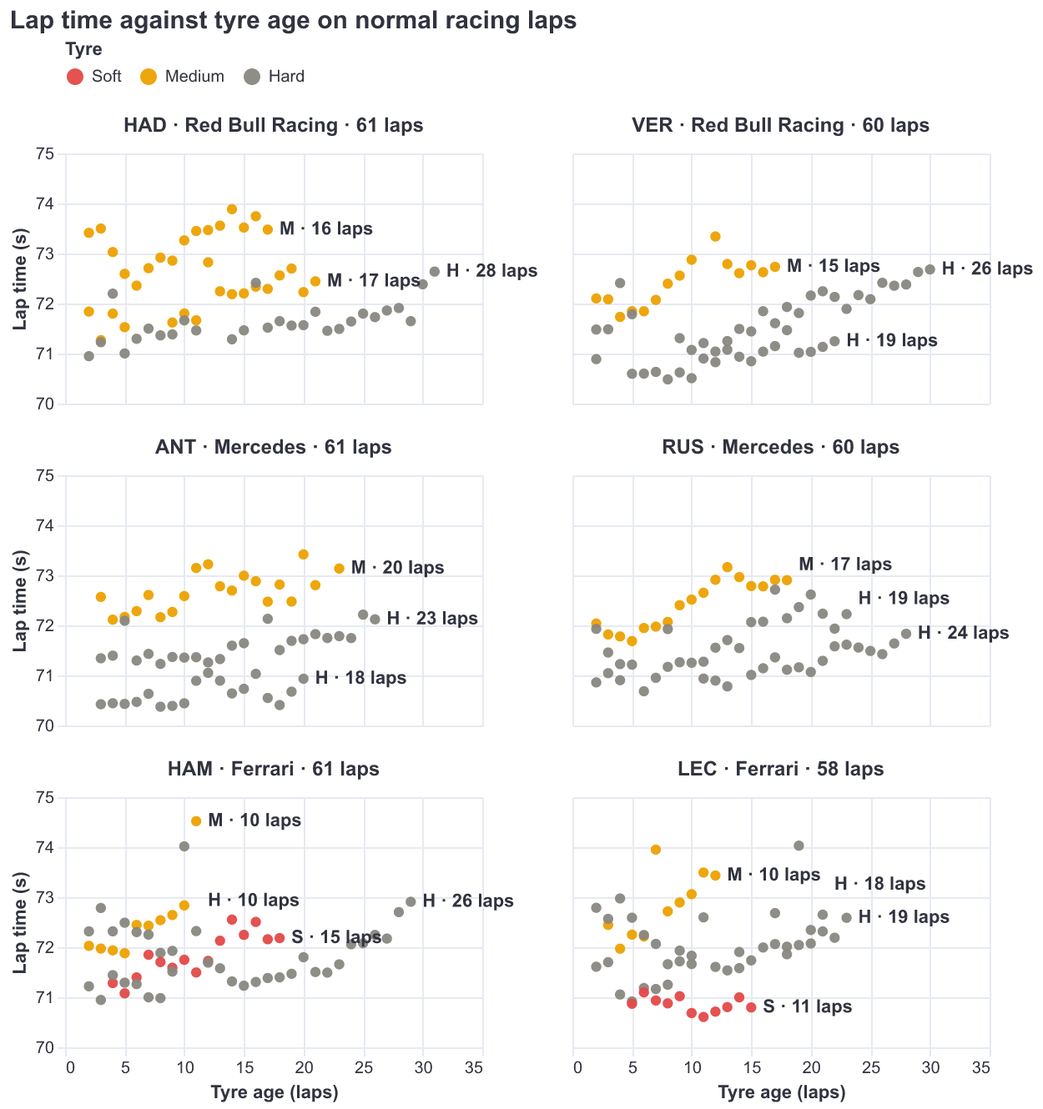
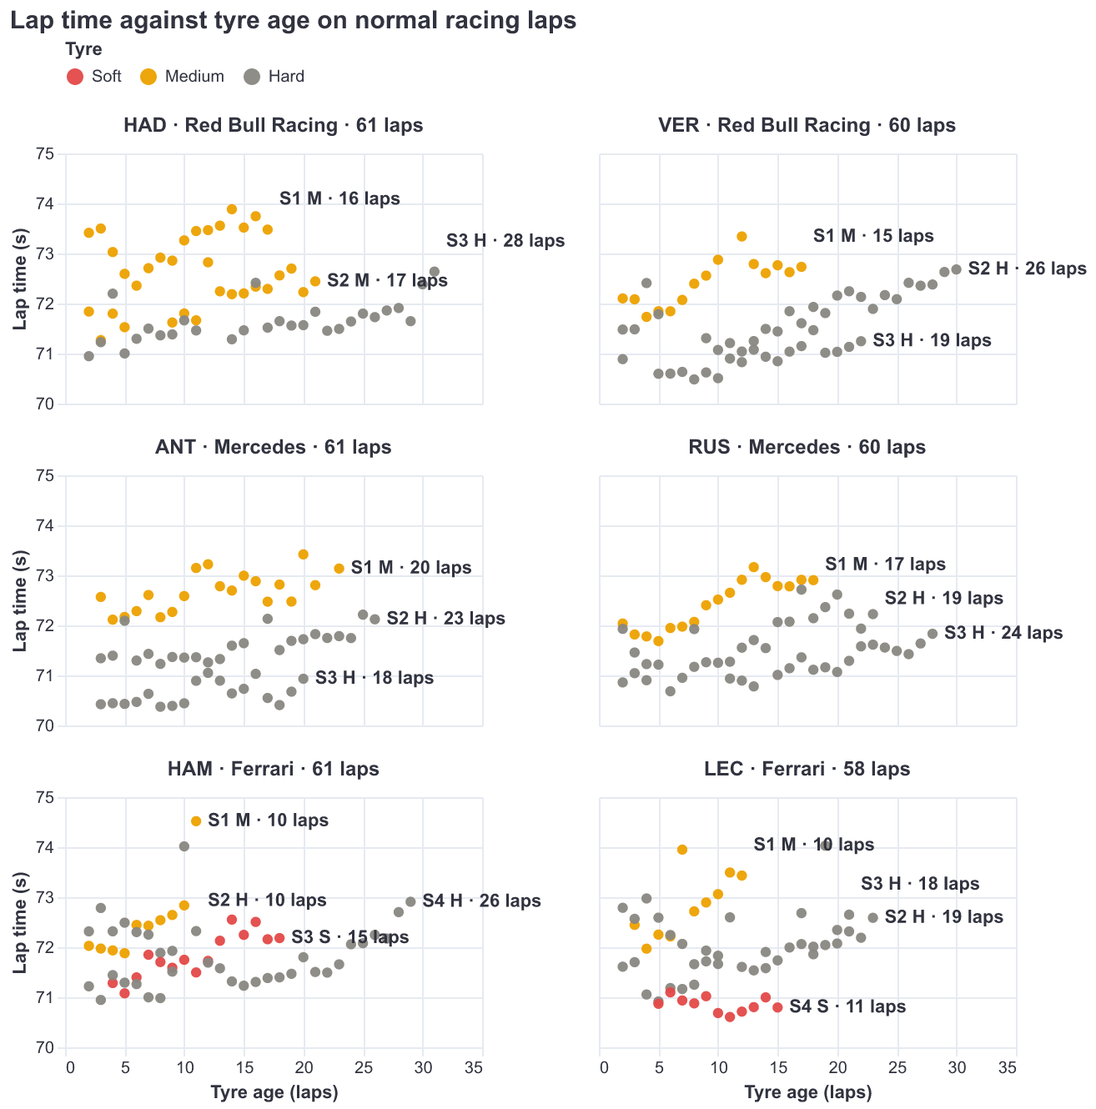
Integrate matched pace comparisons and stint context for issue 17

diff --git a/app/charts.py b/app/charts.py
@@ -123,6 +123,73 @@ def pace_summary(pace: pd.DataFrame) -> pd.DataFrame:
         Label=lambda d: d.Typical.map('{:.2f} s'.format)+' · '+d.Laps.astype(str)+' laps')
 
 
+def matched_pace(laps: pd.DataFrame) -> pd.DataFrame:
+    """Same-lap, same-compound eligible teammate pairs in fixed Austria race windows."""
+    rows = []
+    eligible = laps.loc[laps.EligibleForPace]
+    for team, group in laps.groupby('Team'):
+        drivers = sorted(group.Driver.unique())
+        if len(drivers) != 2:
+            continue
+        a, b = drivers
+        pair = eligible.loc[eligible.Driver.eq(a)].merge(
+            eligible.loc[eligible.Driver.eq(b)], on=['LapNumber', 'Compound'],
+            suffixes=('A', 'B'), validate='one_to_one')
+        if pair.empty:
+            continue
+        pair = pair.assign(Window=pair.LapNumber.map(
+            lambda lap: f'{1+20*((int(lap)-1)//20)}–{min(71,20*(1+(int(lap)-1)//20))}'),
+            Difference=pair.LapTimeSecondsA-pair.LapTimeSecondsB,
+            AgeDifference=pair.TyreLifeA-pair.TyreLifeB)
+        for (window, compound), values in pair.groupby(['Window', 'Compound']):
+            rows.append({'Team': team, 'DriverA': a, 'DriverB': b, 'Pair': f'{a} − {b}',
+                         'Window': window, 'Compound': compound, 'MatchedLaps': len(values),
+                         'MedianDifferenceSecondsAminusB': values.Difference.median(),
+                         'MinimumTyreAgeDifference': values.AgeDifference.min(),
+                         'MaximumTyreAgeDifference': values.AgeDifference.max()})
+    return pd.DataFrame(rows, columns=[
+        'Team', 'DriverA', 'DriverB', 'Pair', 'Window', 'Compound', 'MatchedLaps',
+        'MedianDifferenceSecondsAminusB', 'MinimumTyreAgeDifference', 'MaximumTyreAgeDifference'])
+
+
+def matched_pace_chart(summary: pd.DataFrame, mode: str = 'light', legend: bool = True,
+                       pair_domain: list[str] | None = None) -> alt.LayerChart:
+    """One selected window and compound; a shared domain keeps comparisons honest across panels."""
+    data = summary.assign(Label=summary.MatchedLaps.map(lambda n: f'n={n}'),
+                          Sparse=summary.MatchedLaps.lt(5).map({True: 'Fewer than 5 pairs', False: '5 or more pairs'}))
+    x = alt.X('MedianDifferenceSecondsAminusB:Q', title='Median paired difference A − B (s)',
+              scale=alt.Scale(domain=[-1.1, 1.1], nice=False))
+    # Include every selected value if a future dataset exceeds the current symmetric range.
+    extent = max(1.1, float(data.MedianDifferenceSecondsAminusB.abs().max())+.25) if len(data) else 1.1
+    x.scale = alt.Scale(domain=[-extent, extent], nice=False)
+    order = pair_domain if pair_domain is not None else [
+        pair for pair in ['HAD − VER', 'ANT − RUS', 'HAM − LEC'] if pair in data.Pair.values]
+    y = alt.Y('Pair:N', scale=alt.Scale(domain=order), title='A − B',
+              axis=alt.Axis(labelFontWeight='bold'))
+    base = alt.Chart().encode(x=x, y=y, tooltip=[
+        'Pair:N', 'Team:N', 'Window:N', 'Compound:N', alt.Tooltip('MatchedLaps:Q', title='Matched pairs'),
+        alt.Tooltip('MedianDifferenceSecondsAminusB:Q', title='Median A − B (s)', format='.3f'),
+        alt.Tooltip('MinimumTyreAgeDifference:Q', title='Min tyre age A − B (laps)'),
+        alt.Tooltip('MaximumTyreAgeDifference:Q', title='Max tyre age A − B (laps)')])
+    points = base.mark_point(filled=True, size=130, opacity=1).encode(
+        color=team_color(list(data.Team.unique()), mode).legend(None),
+        shape=alt.Shape('Sparse:N', scale=alt.Scale(domain=['5 or more pairs', 'Fewer than 5 pairs'],
+                                                   range=['circle', 'diamond']),
+                        legend=alt.Legend(title='Sample size', symbolFillColor=INK[mode], symbolStrokeColor=INK[mode]) if legend else None))
+    counts = base.mark_text(dx=12, align='left', color=INK[mode]).encode(text='Label:N')
+    zero = alt.Chart().mark_rule(color=INK[mode], strokeDash=[4, 4]).encode(x=alt.datum(0))
+    return alt.layer(zero, points, counts, data=data).properties(height=150)
+
+
+def stint_context(laps: pd.DataFrame) -> pd.DataFrame:
+    """All recorded stints, including ones with zero eligible pace observations."""
+    return laps.sort_values('LapNumber').groupby(['Team', 'Driver', 'Stint', 'Compound'], sort=False).agg(
+        FirstLap=('LapNumber', 'min'), LastLap=('LapNumber', 'max'),
+        RecordedLaps=('LapNumber', 'size'), EligibleLaps=('EligibleForPace', 'sum'),
+        FreshTyreAtStart=('FreshTyre', 'first'), FirstRecordedTyreAge=('TyreLife', 'first'),
+        LastRecordedTyreAge=('TyreLife', 'last')).reset_index()
+
+
 def pace_chart(pace: pd.DataFrame, mode: str) -> alt.LayerChart:
     summary = pace_summary(pace)
     order = driver_order(summary)
@@ -144,7 +211,7 @@ def pace_chart(pace: pd.DataFrame, mode: str) -> alt.LayerChart:
     return alt.layer(spread, typical, labels).resolve_scale(color='independent', shape='independent').properties(height=52*len(order))
 
 
-def label_heights(pace: pd.DataFrame, clear: float = .45, reach: int = 9) -> pd.Series:
+def label_heights(pace: pd.DataFrame, clear: float = .6, reach: int = 18) -> pd.Series:
     """Height for each stint-end label, nudged up only where it would collide with another label in the same panel."""
     heights = pace.LapTimeSeconds.copy()
     for driver, rows in pace.groupby('Driver'):
@@ -165,7 +232,7 @@ def tyre_age_chart(pace: pd.DataFrame, mode: str = 'light') -> alt.FacetChart:
     totals = pace.groupby('Driver').size()
     stint_laps = pace.groupby(['Driver', 'Stint']).LapNumber.transform('size')
     data = pace.assign(Panel=pace.Driver+' · '+pace.Team+' · '+pace.Driver.map(totals).astype(str)+' laps',
-                       Letter=pace.Compound.str[0]+' · '+stint_laps.astype(str)+' laps',
+                       Letter='S'+pace.Stint.astype(int).astype(str)+' '+pace.Compound.str[0]+' · '+stint_laps.astype(str)+' laps',
                        LabelY=label_heights(pace))
     panels = sorted(data.Panel.unique(), key=lambda p: order.index(p.split(' · ')[0]))
     base = alt.Chart().encode(
@@ -173,7 +240,7 @@ def tyre_age_chart(pace: pd.DataFrame, mode: str = 'light') -> alt.FacetChart:
         y=alt.Y('LapTimeSeconds:Q', title='Lap time (s)', scale=alt.Scale(zero=False)),
         detail='Stint:N')
     points = base.mark_circle(size=38, opacity=.95).encode(color=compound_color(), tooltip=[
-        'Driver', alt.Tooltip('Compound', title='Tyre'), alt.Tooltip('TyreLife', title='Tyre age (laps)'),
+        'Driver', 'Stint', alt.Tooltip('Compound', title='Tyre'), alt.Tooltip('TyreLife', title='Tyre age (laps)'),
         alt.Tooltip('LapNumber', title='Lap'), alt.Tooltip('LapTimeSeconds', title='Lap time (s)', format='.3f')])
     ends = base.transform_window(Rank='rank()', sort=[alt.SortField('TyreLife', order='descending')],
                                  groupby=['Panel', 'Stint']).transform_filter('datum.Rank == 1')

diff --git a/app/story.py b/app/story.py
@@ -100,6 +100,10 @@ def overview_slide() -> None:
 
 
 def pace_slide() -> None:
+    comparison = st.radio('Pace comparison', ['Whole-race overview', 'Matched race windows'], horizontal=True)
+    if comparison == 'Matched race windows':
+        matched_pace_slide()
+        return
     ranked = charts.pace_summary(pace).sort_values('Typical')
     fast, slow = ranked.iloc[0], ranked.iloc[-1]
     steady = ranked.assign(Spread=ranked.High-ranked.Low).sort_values('Spread').iloc[0]
@@ -110,12 +114,42 @@ def pace_slide() -> None:
              'Only normal racing laps count: not lap 1, not pit-stop laps, and not laps under a VSC or yellow flag.'],
             [f'<b>{steady.Driver}</b> had the steadiest laps (the shortest bar).',
              'A small gap does not show who had the better strategy: fuel, traffic and conditions are not accounted for.'])
-    st.write(f'Compares {len(pace)} normal racing laps. '
+    st.write(f'Whole-race context: compares {len(pace)} normal racing laps across different compounds and tyre ages. '
              'Lap 1, pit-stop laps, VSC and yellow-flag laps, and deleted laps are left out.')
     st.iframe(replay.html(laps, 'pace', mode, 56*laps.Driver.nunique()+80), height=56*laps.Driver.nunique()+90)
     st.caption("The bar covers the middle half of each driver's normal racing laps, the dot or triangle marks their typical lap "
                'and the count is the number of laps behind it. Lower times are faster; a shorter bar means more consistent pace, '
                'not a better strategy. Fuel load, traffic and conditions are not controlled.')
+
+
+def matched_pace_slide() -> None:
+    explain('Matching race lap and compound can reveal patterns hidden by whole-race summaries.',
+            ['Each point compares two team-mates on the <b>same race laps and compound</b>, with both laps eligible.',
+             '<b>A − B</b>: a negative value means A was faster; a positive value means B was faster. The dashed line is zero.',
+             'The point is the median of the paired differences, not a difference between whole-race medians.'],
+            ['The count is the number of matched lap pairs. A diamond warns that there are fewer than five.',
+             'Tyre ages can still differ. Fuel, traffic and car differences remain uncontrolled.'])
+    summary = charts.matched_pace(laps)
+    window = st.selectbox('Race window (laps)', ['1–20', '21–40', '41–60', '61–71'])
+    compound = st.selectbox('Matched compound', charts.COMPOUNDS, index=1)
+    selected = summary.loc[summary.Window.eq(window) & summary.Compound.eq(compound)]
+    if selected.empty:
+        st.info('No same-lap, same-compound eligible teammate pairs for this selection. Missing pairs are not zero differences.')
+        return
+    st.altair_chart(charts.matched_pace_chart(selected, mode), width='stretch')
+    table = selected[['Pair', 'Team', 'MatchedLaps', 'MedianDifferenceSecondsAminusB',
+                      'MinimumTyreAgeDifference', 'MaximumTyreAgeDifference']].rename(columns={
+        'Pair': 'A − B', 'MatchedLaps': 'Matched pairs',
+        'MedianDifferenceSecondsAminusB': 'Median A − B (s)',
+        'MinimumTyreAgeDifference': 'Min tyre age A − B (laps)',
+        'MaximumTyreAgeDifference': 'Max tyre age A − B (laps)'})
+    st.dataframe(table, hide_index=True, width='stretch', column_config={
+        'Median A − B (s)': st.column_config.NumberColumn(format='%.3f'),
+        'Min tyre age A − B (laps)': st.column_config.NumberColumn(format='%.0f'),
+        'Max tyre age A − B (laps)': st.column_config.NumberColumn(format='%.0f')})
+    st.caption('Tyre-age differences use the same A − B direction: negative means A used younger tyres. '
+               'The minimum and maximum describe the matched laps, not uncertainty bounds. '
+               'Pairs absent from a window are omitted; fewer than five pairs is a sample-size caution, not a significance test.')
 
 
 def tyre_slide() -> None:
@@ -131,6 +165,15 @@ def tyre_slide() -> None:
     st.iframe(replay.html(laps, 'tyres', mode, 190*panel_rows+90), height=190*panel_rows+100)
     st.caption('Each dot is one normal racing lap, coloured by tyre and labelled with its stint and lap count. '
                'Lines are not drawn across the laps that are left out. Sparse stints may not support a trend.')
+    st.markdown('##### Recorded stints and eligible observations')
+    context = charts.stint_context(laps).rename(columns={
+        'Stint': 'Stint number', 'FirstLap': 'First race lap', 'LastLap': 'Last race lap',
+        'RecordedLaps': 'Recorded laps', 'EligibleLaps': 'Eligible laps',
+        'FreshTyreAtStart': 'Fresh set at start', 'FirstRecordedTyreAge': 'Starting tyre age (laps)',
+        'LastRecordedTyreAge': 'Ending tyre age (laps)'})
+    st.dataframe(context, hide_index=True, width='stretch')
+    st.caption('Recorded laps count every lap in the stint; eligible laps count only the dots used for pace analysis. '
+               'Used sets can start above age one. Stint number distinguishes consecutive sets of the same compound.')
 
 
 def pit_slide() -> None:

diff --git a/tests/test_matched_dashboard.py b/tests/test_matched_dashboard.py
@@ -1,0 +1,58 @@
+"""Check dashboard comparisons against the reviewed exploration evidence."""
+from pathlib import Path
+import sys
+import unittest
+
+import pandas as pd
+import vl_convert as vlc
+
+ROOT = Path(__file__).resolve().parents[1]
+sys.path.insert(0, str(ROOT/'app'))
+import charts
+
+
+class MatchedDashboardTests(unittest.TestCase):
+    @classmethod
+    def setUpClass(cls):
+        cls.laps = charts.load_data(ROOT/'data/processed/austria-2026')['laps']
+
+    def test_every_window_matches_reviewed_exploration(self):
+        actual = charts.matched_pace(self.laps).drop(columns='Pair')
+        expected = pd.read_csv(ROOT/'docs/pace-tyre-exploration/matched_windows.csv')
+        keys = ['Team', 'Window', 'Compound']
+        pd.testing.assert_frame_equal(actual.sort_values(keys).reset_index(drop=True),
+                                      expected.sort_values(keys).reset_index(drop=True),
+                                      check_dtype=False, atol=1e-6, rtol=0)
+        self.assertEqual(actual.MatchedLaps.sum(), 126)
+
+    def test_all_stints_match_reviewed_counts_and_ages(self):
+        actual = charts.stint_context(self.laps)
+        expected = pd.read_csv(ROOT/'docs/pace-tyre-exploration/stint_summary.csv')[actual.columns]
+        keys = ['Team', 'Driver', 'Stint']
+        pd.testing.assert_frame_equal(actual.sort_values(keys).reset_index(drop=True),
+                                      expected.sort_values(keys).reset_index(drop=True), check_dtype=False)
+
+    def test_no_eligible_laps_or_teammate_does_not_invent_pairs(self):
+        no_pace = self.laps.assign(EligibleForPace=False)
+        self.assertTrue(charts.matched_pace(no_pace).empty)
+        self.assertTrue(charts.matched_pace(self.laps.loc[self.laps.Driver.eq('ANT')]).empty)
+        context = charts.stint_context(no_pace)
+        self.assertEqual(context.RecordedLaps.sum(), 426)
+        self.assertEqual(context.EligibleLaps.sum(), 0)
+
+    def test_chart_driver_rows_follow_the_team_filter(self):
+        summary = charts.matched_pace(self.laps.loc[self.laps.Team.eq('Mercedes')])
+        spec = charts.matched_pace_chart(summary.loc[summary.Window.eq('1–20')]).to_dict()
+        self.assertEqual(spec['layer'][1]['encoding']['y']['scale']['domain'], ['ANT − RUS'])
+
+    def test_chart_renders_sparse_samples_in_both_themes(self):
+        summary = charts.matched_pace(self.laps)
+        hard = summary.loc[summary.Compound.eq('HARD') & summary.Window.eq('21–40')]
+        for mode in ['light', 'dark']:
+            svg = vlc.vegalite_to_svg(charts.matched_pace_chart(hard, mode).to_dict())
+            self.assertIn('n=3', svg)
+            self.assertIn('Fewer than 5 pairs', svg)
+
+
+if __name__ == '__main__':
+    unittest.main()

diff --git a/scripts/export_figures.py b/scripts/export_figures.py
@@ -18,9 +18,18 @@ INK, GRID = '#31333f', '#e6eaf1'
 def figures(data: dict) -> dict[str, alt.TopLevelMixin]:
     laps, stints, visits = data['laps'], data['stints'], data['visits']
     pace = laps.loc[laps.EligibleForPace]
+    summary = charts.matched_pace(laps)
+    matched = alt.vconcat(*[
+        alt.hconcat(*[
+            charts.matched_pace_chart(summary.loc[summary.Window.eq(window) & summary.Compound.eq(compound)],
+                                      legend=False, pair_domain=['HAD − VER', 'ANT − RUS', 'HAM − LEC']).properties(
+                                          width=320, title=f'Laps {window} · {compound.title()}')
+            for compound in ['MEDIUM', 'HARD']])
+        for window in ['1–20', '21–40', '41–60', '61–71']])
     titled = {
         'stint-timeline': (charts.stint_timeline(stints, laps), 'Tyre stints by driver'),
         'pace': (charts.pace_chart(pace, 'light'), 'Typical lap and middle half of normal racing laps'),
+        'pace-matched': (matched, 'Matched race windows: median paired difference A − B (s); negative = A faster'),
         'tyre-age': (charts.tyre_age_chart(pace), 'Lap time against tyre age on normal racing laps'),
         'positions': (charts.position_chart(laps, visits, 'light'), 'Position by lap, with pit stops'),
         'vsc': (charts.vsc_chart(laps, 'light'), 'Lap times around Virtual Safety Car periods'),
@@ -30,9 +39,12 @@ def figures(data: dict) -> dict[str, alt.TopLevelMixin]:
 
 def static(chart: alt.TopLevelMixin, title: str) -> alt.TopLevelMixin:
     """Fixed light styling so exported images look the same on every machine."""
-    if not isinstance(chart, alt.FacetChart):
+    if not isinstance(chart, (alt.FacetChart, alt.VConcatChart)):
         chart = chart.properties(width=760)
-    return chart.properties(title=alt.Title(title, anchor='start', fontSize=15, color=INK)).configure(
+    notes = ['Source: retained FastF1 3.8.3 Austria 2026 snapshot. Only eligible normal-racing laps are paired.',
+             'Tyre ages, fuel and traffic remain uncontrolled. Diamond = fewer than 5 pairs; empty = no pairs.']
+    title_args = {'subtitle': notes, 'subtitleColor': INK} if 'Matched race windows' in title else {}
+    return chart.properties(title=alt.Title(title, anchor='start', fontSize=15, color=INK, **title_args)).configure(
         background='#ffffff', font='Arial').configure_view(stroke=None).configure_axis(
         labelColor=INK, titleColor=INK, gridColor=GRID, domainColor=GRID, tickColor=GRID).configure_legend(
         labelColor=INK, titleColor=INK).configure_header(labelColor=INK).configure_text(color=INK)

diff --git a/tests/test_story_app.py b/tests/test_story_app.py
@@ -101,6 +101,35 @@ class StoryAppTests(unittest.TestCase):
         self.go_to(4)
         self.assertTrue(any('laps 24–26, 52–53' in text.value for text in self.app.markdown))
 
+    def test_matched_pace_filter_and_empty_selection(self):
+        self.go_to(1)
+        self.app.radio[0].set_value('Matched race windows').run()
+        table = self.app.dataframe[0].value.set_index('A − B')
+        self.assertEqual(table.loc['ANT − RUS', 'Matched pairs'], 16)
+        self.assertAlmostEqual(table.loc['ANT − RUS', 'Median A − B (s)'], .155)
+        self.app.multiselect[0].set_value(['Mercedes']).run()
+        self.app.selectbox[0].set_value('61–71').run()
+        self.app.selectbox[1].set_value('HARD').run()
+        row = self.app.dataframe[0].value.iloc[0]
+        self.assertEqual(row['Matched pairs'], 11)
+        self.assertAlmostEqual(row['Median A − B (s)'], -.883)
+        self.assertEqual(row['Min tyre age A − B (laps)'], -8)
+        self.app.selectbox[1].set_value('SOFT').run()
+        self.assertFalse(self.app.exception)
+        self.assertEqual(len(self.app.get('vega_lite_chart')), 0)
+        self.assertTrue(any('Missing pairs are not zero differences' in box.value for box in self.app.info))
+
+    def test_tyre_table_retains_used_set_and_all_stint_laps(self):
+        self.app.multiselect[0].set_value(['Ferrari']).run()
+        self.go_to(2)
+        table = self.app.dataframe[0].value
+        self.assertEqual(set(table.Team), {'Ferrari'})
+        used = table.loc[table.Driver.eq('HAM') & table['Stint number'].eq(3)].iloc[0]
+        self.assertEqual(used['Recorded laps'], 17)
+        self.assertEqual(used['Eligible laps'], 15)
+        self.assertEqual(used['Starting tyre age (laps)'], 3)
+        self.assertFalse(used['Fresh set at start'])
+
 
 if __name__ == '__main__':
     unittest.main()

diff --git a/tests/test_export_figures.py b/tests/test_export_figures.py
@@ -14,7 +14,7 @@ spec.loader.exec_module(module)
 class ExportFigureTests(unittest.TestCase):
     def test_every_figure_renders(self):
         figures = module.figures(module.charts.load_data(module.DATA))
-        self.assertEqual(len(figures), 5)
+        self.assertEqual(len(figures), 6)
         for name, chart in figures.items():
             with self.subTest(name):
                 self.assertIn('<svg', vlc.vegalite_to_svg(chart.to_dict()))

diff --git a/docs/dashboard-integration.md b/docs/dashboard-integration.md
@@ -1,0 +1,39 @@
+# Dashboard integration
+
+The five planned views remain in their existing order. This update integrates the reviewed pace/tyre evidence without changing preparation, eligibility or the pit/VSC calculations.
+
+| Planned view | Existing implementation retained | Integration change |
+| --- | --- | --- |
+| Tyre stints | Driver rows, compound letters, separate same-compound sets, strategy table | Retained; detailed stint accounting is available alongside the tyre-age view |
+| Comparable pace | Whole-race median and middle-half overview with driver shapes and sample counts | Added an explicit alternative for same-lap, same-compound teammate comparisons in four fixed windows |
+| Lap time and tyre age | Eligible individual lap points within driver panels | Added all-stint accounting, including used-set starting ages, recorded and eligible counts; static labels now identify stint numbers |
+| Pit visits and VSC clock | Recorded deployment/ending/clear times, all-visit table and boundary caution | Retained unchanged |
+| Event context | Lap-completion observations, affected-lap rings, position and lap-boundary interval panels | Retained unchanged; affected laps can finish beyond the status shading |
+
+## Matched comparisons
+
+Windows are laps 1–20, 21–40, 41–60 and 61–71, as in the reviewed exploration. Within each team, A and B are alphabetically ordered driver codes. Both observations must be eligible, on the same race lap and on the same compound. The point is the median of the individual A − B lap-time differences. It is not a difference between whole-race medians. Negative means A was faster.
+
+The table supplies the number of pairs and minimum/maximum recorded tyre-age differences using the same A − B direction. A negative age difference means A had younger tyres. These ranges are descriptive, not confidence intervals. Diamonds mark fewer than five pairs as a reading caution, not a statistical threshold. No point is invented when there are no pairs.
+
+The dashboard recalculates comparisons from the selected teams' prepared laps. Tests compare every resulting window with `docs/pace-tyre-exploration/matched_windows.csv`: 126 pairs across 11 groups. For Mercedes, the initial Medium window has 16 pairs and a median A − B of +0.155 s; the final Hard window has 11 pairs and −0.883 s, with A's tyres eight recorded laps younger. Matching does not control tyre age, fuel, traffic or car differences and cannot establish an optimal strategy.
+
+## Stint accounting
+
+The tyre-age view retains every stint in its table, including any with zero eligible observations. Recorded laps include excluded laps; eligible laps count the plotted pace observations. Hamilton's third stint has 17 recorded laps, 15 eligible observations and a starting recorded age of three because the Soft set was used. Stint number distinguishes separate sets of the same compound. Recorded tyre age is not measured wear.
+
+## Reproduction and static outputs
+
+From the repository root, with the pinned requirements installed:
+
+```powershell
+python -m streamlit run app/story.py
+python scripts/export_figures.py
+python -m unittest discover -s tests -v
+```
+
+The first command starts the dashboard. The exporter produces six images: the existing five exports plus `figures/austria-2026/pace-matched.png`. The matched image contains explicit panels for Medium and Hard in all four windows, including empty panels. Soft has no matched eligible pairs; the dashboard reports this when selected. Static tyre-age labels include stint numbers. The matched image and dashboard use the same aggregation and chart function. Hover details are supplemented by the dashboard table; use that table or the committed comparison CSV for the numeric tyre-age ranges when presenting the static image.
+
+The recorded-clock pit and event exploration figures remain in `figures/austria-2026/pit-vsc/`, reproduced with `python scripts/explore_pit_vsc.py` and the retained raw snapshot. The generic `vsc.png` and `positions.png` exports remain supplementary views, not replacements for the clock-based evidence.
+
+Relevant checks cover agreement with reviewed window/stint tables, zero-eligible selections, team filtering, the empty-compound message, both chart themes, static rendering and existing replay behaviour. Technical checks do not establish audience understanding. Audience sessions remain under #8, story refinement under #18 and broader usability checks under #19.

diff --git a/README.md b/README.md
@@ -4,7 +4,7 @@ A group data visualisation project for F1 fans, initially studying the 2026 Aust
 
 ## Current status
 
-The audience brief, data audit, preparation pipeline and story prototype are available. We retain all 426 selected laps and mark 361 as eligible for initial normal-racing pace comparisons. The pit/VSC exploration describes timestamp overlaps and event-window observations; pace/tyre exploration and actual audience feedback remain in progress. No final performance findings have been established.
+The audience brief, data audit, preparation pipeline and story prototype are available. We retain all 426 selected laps and mark 361 as eligible for normal-racing pace comparisons. Pit/VSC and pace/tyre exploration are merged. The dashboard offers whole-race pace context and matched race-window comparisons, with stint accounting alongside the tyre-age view. Audience feedback and the final story remain in progress.
 
 ## Research questions
 
@@ -49,6 +49,8 @@ Save the charts as images in `figures/austria-2026/` for slides and the static s
 ```
 
 The story page follows the design plan: slides 1 to 5 are its five views (stints, pace, tyre age, pit visits and the VSC clock, event context), then an extra positions view. The static images of the pit and VSC views are in `figures/austria-2026/pit-vsc/`, made by `scripts/explore_pit_vsc.py`.
+
+On slide 2, choose **Matched race windows**, then a race window and compound. Negative A − B means A was faster; the table reports matched-pair counts and the range of tyre-age differences. Empty selections are stated explicitly. Slide 3 includes every recorded stint with eligible/recorded counts and starting tyre ages. See the [dashboard integration note](docs/dashboard-integration.md) for the view audit and static outputs.
 
 ## Data and documentation
 
